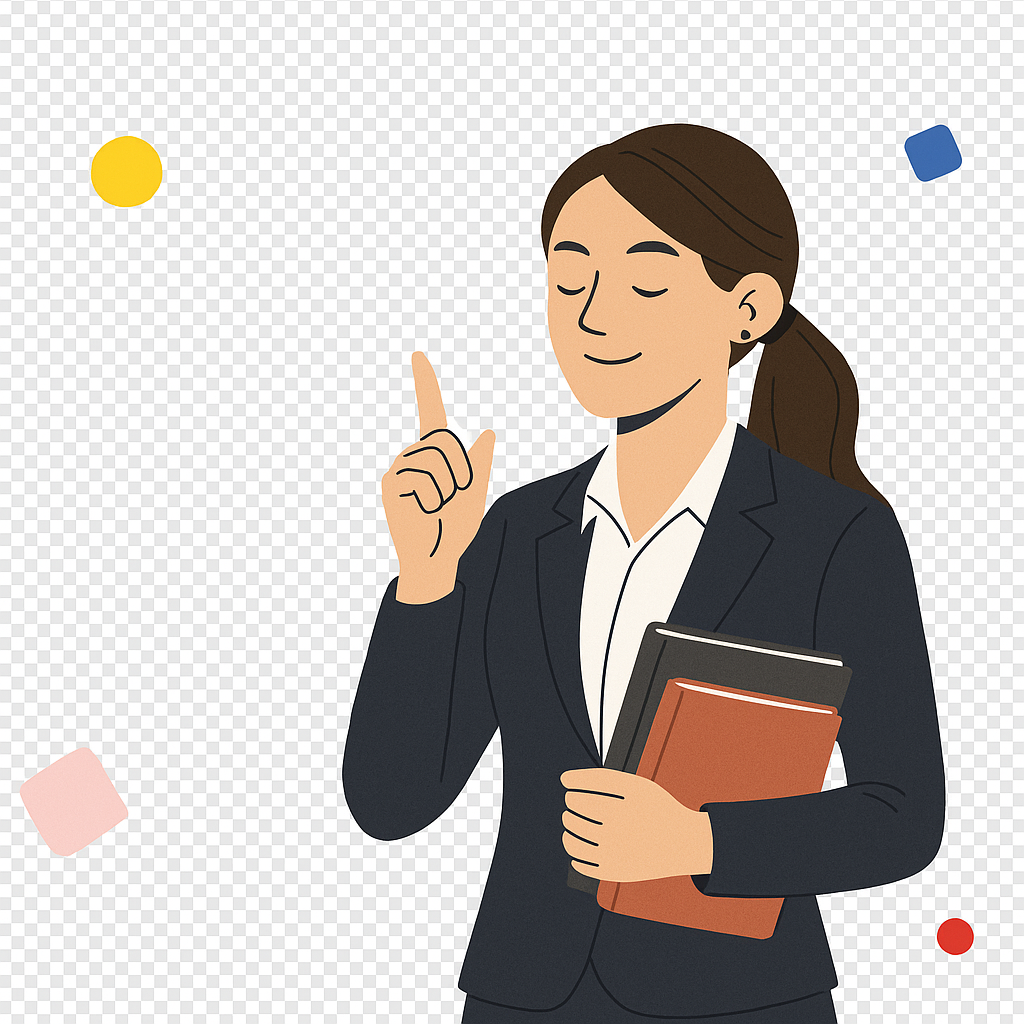
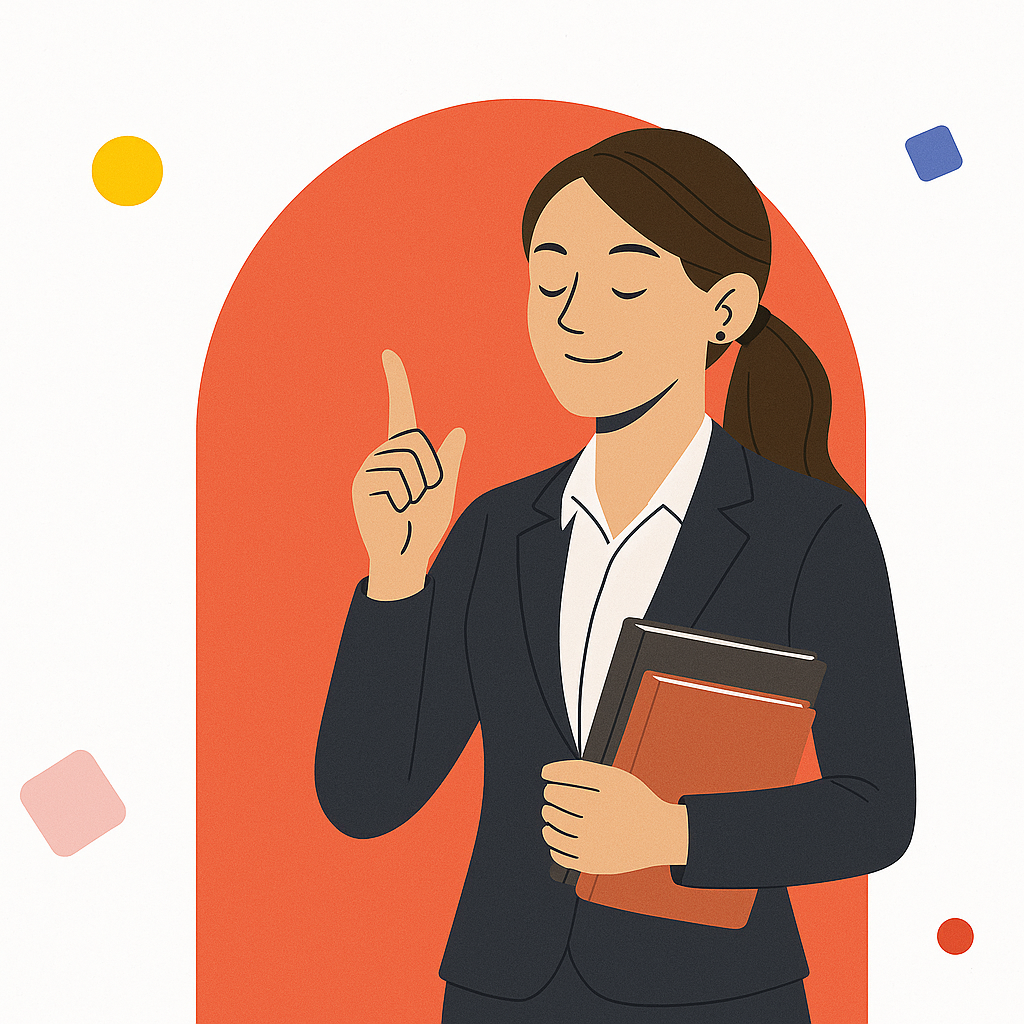
Feature section added

diff --git a/src/pages/Home/components/Features.jsx b/src/pages/Home/components/Features.jsx
@@ -1,0 +1,43 @@
+import React from 'react';
+import { Icon } from '@iconify/react';
+import { FeaturesData } from './data'; // Adjust the path based on your project structure
+
+const Features = () => {
+  return (
+    <section>
+      <div className="container mx-auto lg:max-w-screen-xl md:max-w-screen-md" id="about-section">
+        <div className="text-center mb-14">
+          <p className="text-primaryPurple text-lg font-normal mb-3 tracking-widest uppercase">Features</p>
+          <h2 className="text-3xl lg:text-5xl font-semibold text-black dark:text-white lg:max-w-60% mx-auto">
+            Get a many of interesting features.
+          </h2>
+        </div>
+        <div className="grid sm:grid-cols-2 lg:grid-cols-4 gap-y-20 gap-x-5 mt-32">
+          {FeaturesData.map((items, i) => (
+            <div
+              className="p-8 relative rounded-3xl bg-gradient-to-b from-black/5 to-white dark:from-white/5 dark:to-black"
+              key={i}
+            >
+              <div className="work-img-bg rounded-full flex justify-center absolute -top-[50%] sm:top-[-40%] md:top-[-55%] lg:top-[-45%] left-[0%]">
+                <img src={items.imgSrc} alt={`feature-${i}`} width={510} height={10} />
+              </div>
+              <h3 className="text-2xl text-black dark:text-white font-semibold text-center mt-16">{items.heading}</h3>
+              <p className="text-lg font-normal text-black/50 dark:text-white/50 text-center mt-2">{items.subheading}</p>
+              <div className="flex items-center justify-center">
+                <a
+                  href="/"
+                  className="text-center text-lg group duration-300 ease-in-out font-medium text-primary mt-2 overflow-hidden flex items-center relative after:absolute after:w-full after:h-px after:bg-primary after:bottom-0 after:right-0 after:translate-x-full hover:after:translate-x-0"
+                >
+                  Learn More
+                  <Icon icon="tabler:chevron-right" width="24" height="24" className="text-primary" />
+                </a>
+              </div>
+            </div>
+          ))}
+        </div>
+      </div>
+    </section>
+  );
+};
+
+export default Features;

diff --git a/src/pages/Home/components/data.jsx b/src/pages/Home/components/data.jsx
@@ -1,0 +1,68 @@
+// data.js
+export const FeaturesData = [
+    {
+      imgSrc: '/images/features/featureOne.svg',
+      heading: "Interview Prep",
+      subheading: "Sed ut perspiciatis unde omnis iste natus error",
+    },
+    {
+      imgSrc: '/images/features/featureTwo.svg',
+      heading: "Coding Challenges",
+      subheading: "Sed ut perspiciatis unde omnis iste natus error",
+    },
+    {
+      imgSrc: '/images/features/featureThree.svg',
+      heading: "Resume Builder / Tips",
+      subheading: "Sed ut perspiciatis unde omnis iste natus error",
+    },
+    {
+      imgSrc: '/images/features/featureFour.svg',
+      heading: "HR Round Preparation",
+      subheading: "Sed ut perspiciatis unde omnis iste natus error",
+    }
+  ];
+  
+  // Expert Data (JSX Conversion)
+  
+  export const ExpertData = [
+    {
+      profession: 'Senior Chef',
+      name: 'Shoo Thar Mien',
+      imgSrc: '/images/Expert/boyone.svg',
+    },
+    {
+      profession: 'Junior Chef',
+      name: 'Shoo Thar Mien',
+      imgSrc: '/images/Expert/girl.png',
+    },
+    {
+      profession: 'Junior Chef',
+      name: 'Shoo Thar Mien',
+      imgSrc: '/images/Expert/boytwo.svg',
+    },
+    {
+      profession: 'Junior Chef',
+      name: 'Shoo Thar Mien',
+      imgSrc: '/images/Expert/girl.png',
+    },
+    {
+      profession: 'Senior Chef',
+      name: 'Shoo Thar Mien',
+      imgSrc: '/images/Expert/boyone.svg',
+    },
+    {
+      profession: 'Junior Chef',
+      name: 'Shoo Thar Mien',
+      imgSrc: '/images/Expert/boytwo.svg',
+    }
+  ];
+  
+  // Gallery Images Data (JSX Conversion)
+  
+  export const galleryImages = [
+    { src: '/images/Gallery/foodone.jpg', name: 'Caesar Salad(187 Kcal)', price: 35 },
+    { src: '/images/Gallery/foodtwo.jpg', name: 'Christmas salad(118 Kcal)', price: 17 },
+    { src: '/images/Gallery/foodthree.jpg', name: 'Sauteed mushrooms with pumpkin and sweet pepper(238 kcal)', price: 45 },
+    { src: '/images/Gallery/foodfour.jpg', name: 'BBQ Chicken Feast Pizza(272 kcal)', price: 27 },
+  ];
+  

diff --git a/src/pages/Home/index.jsx b/src/pages/Home/index.jsx
@@ -1,24 +1,6 @@
 import React from "react";
 import Hero from "./components/Hero";
-
-// const HeroSection = () => {
-//   return (
-//     <section id="home-section" className='bg-gray-50 dark:bg-gray-700'>
-//       <div className="container mx-auto lg:max-w-screen-xl md:max-w-screen-md px-4 pt-20">
-//         <h1 className="text-4xl md:text-6xl font-bold mb-4 text-red-600">
-//           Welcome to Interview Crackers 💼
-//         </h1>
-//         <p className="text-lg text-gray-600 max-w-xl mx-auto">
-//           Master the art of interviews with expert questions, winning answers, and smart tips.
-//           Get started on your journey to crack every interview with confidence today.
-//         </p>
-//         <button className="mt-6 px-6 py-3 bg-primaryPurple text-white rounded-full font-semibold hover:bg-red-600">
-//           Explore Recipes
-//         </button>
-//       </div>
-//     </section>
-//   );
-// };
+import Features from "./components/Features";
 
 function Home() {
 
@@ -26,8 +8,10 @@ function Home() {
   return (
     <main>
       <Hero />  
+      <Features/>
     </main>
   );
 }
+
 
 export default Home;

diff --git a/src/pages/Home/components/Hero.jsx b/src/pages/Home/components/Hero.jsx
@@ -31,7 +31,7 @@ const Hero = () => {
 
                     <div className="col-span-6 flex justify-center relative">
                         <div className="flex bg-white p-2 gap-5 items-center bottom-10 left-10 rounded-xl absolute">
-                            <img src="/images/home/qstns.svg" alt="qstn-image" width={68} height={68} />
+                            <img src="/images/home/qstns.png" alt="qstn-image" width={68} height={68} />
                             <p className="text-lg font-normal">
                                 More than 500+ <br /> Questions.
                             </p>
